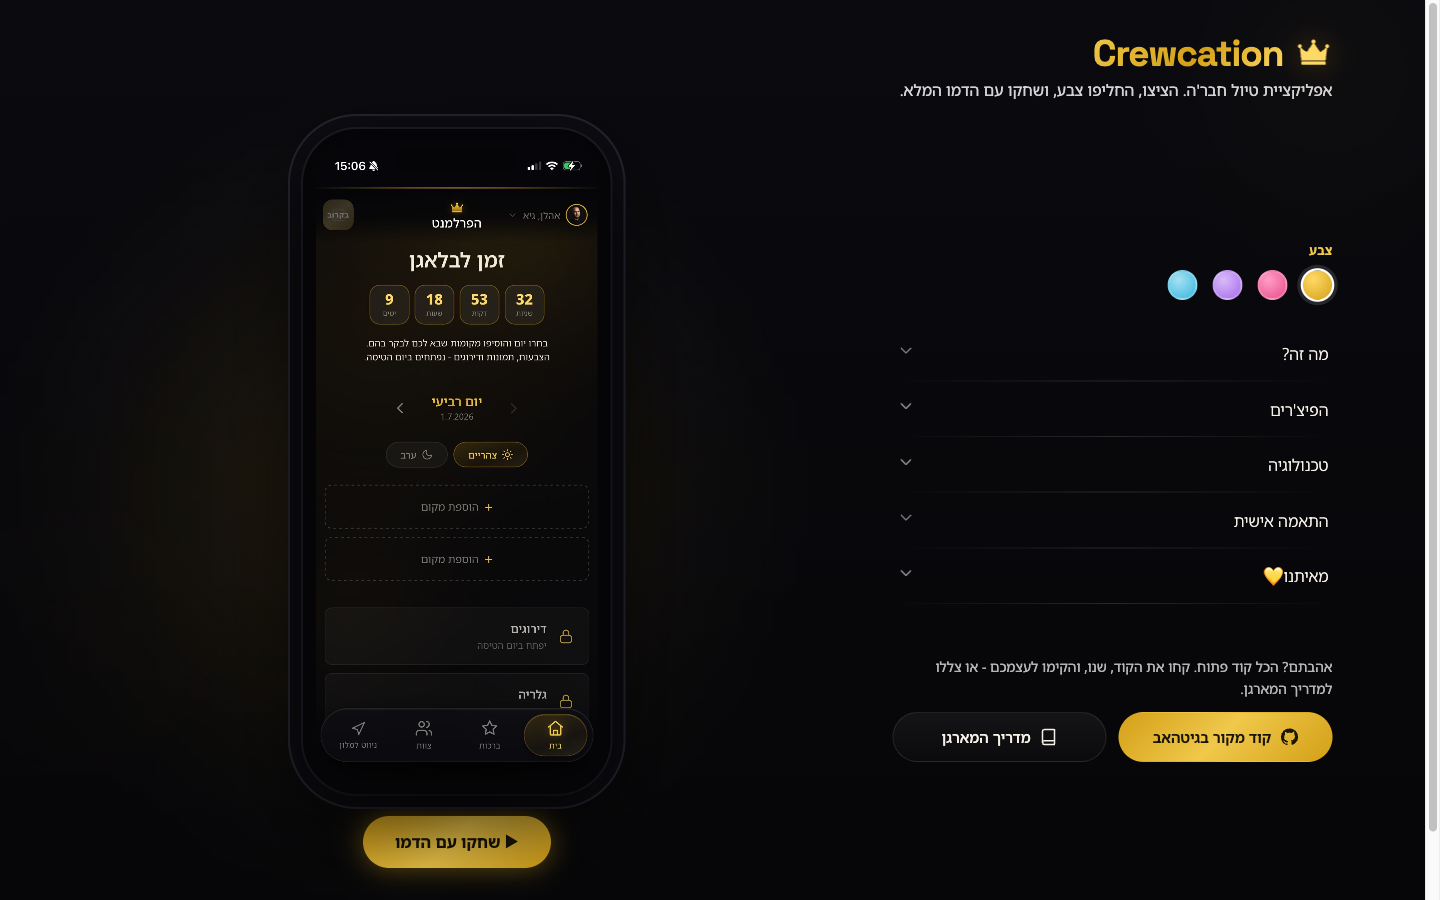
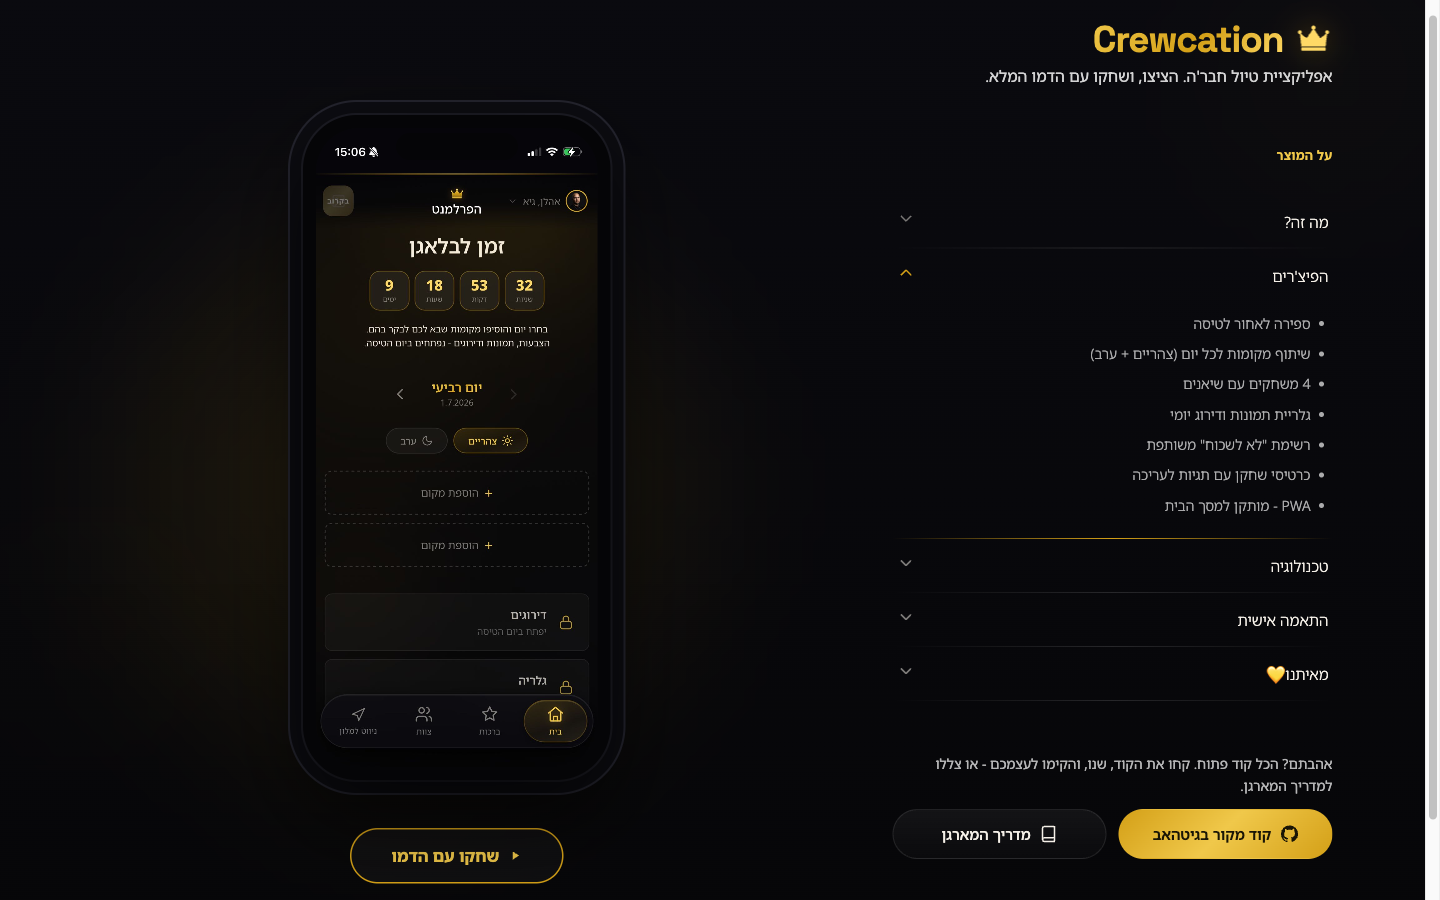
דמו: כפתור צף בתוך הדמו להחלפת מצב (לפני הטיסה/יום הטיסה) + עדכון צילום README לגרסה הנוכחית (תמונת גיא, בלי צבעים)

diff --git a/demo_guard.php b/demo_guard.php
@@ -1,4 +1,20 @@
 <?php if (function_exists('demo_mode') && demo_mode()): ?>
+<?php $__ph = $_SESSION['demo_phase'] ?? 'before'; ?>
+<style>
+.demo-phase { position: fixed; top: calc(env(safe-area-inset-top) + 70px); left: 50%; transform: translateX(-50%);
+    z-index: 45; display: inline-flex; align-items: center; gap: 6px; padding: 5px;
+    background: rgba(10,10,16,0.92); backdrop-filter: blur(12px); border: 1px solid var(--border-gold);
+    border-radius: 100px; box-shadow: 0 8px 26px rgba(0,0,0,0.5); }
+.demo-phase .dp-tag { font-size: .66rem; color: var(--gold-light); font-weight: 600; padding: 0 6px; white-space: nowrap; }
+.demo-phase .dp-btn { font-size: .8rem; font-weight: 600; text-decoration: none; color: var(--text-muted);
+    padding: 7px 15px; border-radius: 100px; white-space: nowrap; transition: all .2s; }
+.demo-phase .dp-btn.active { background: var(--grad-gold); color: #1a1505; }
+</style>
+<div class="demo-phase" aria-label="מצב הדגמה">
+    <span class="dp-tag">הדגמה</span>
+    <a class="dp-btn <?= $__ph !== 'during' ? 'active' : '' ?>" href="app.php?phase=before">לפני הטיסה</a>
+    <a class="dp-btn <?= $__ph === 'during' ? 'active' : '' ?>" href="app.php?phase=during">יום הטיסה</a>
+</div>
 <div id="demoModal" class="demo-modal" onclick="this.classList.remove('show')">
     <div class="demo-modal-card" onclick="event.stopPropagation()">
         <div class="dm-emoji">🙂</div>